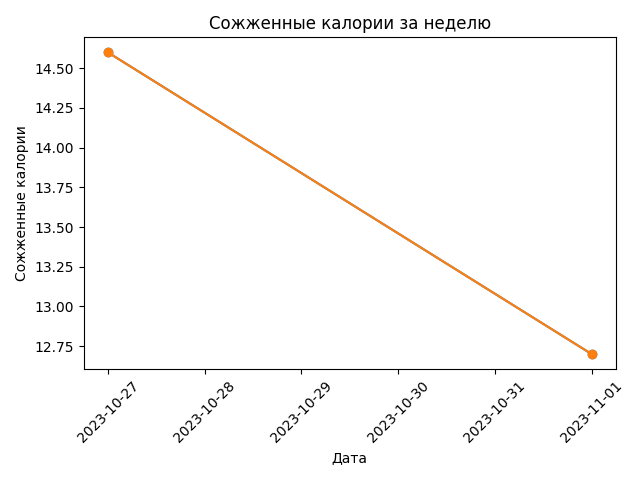
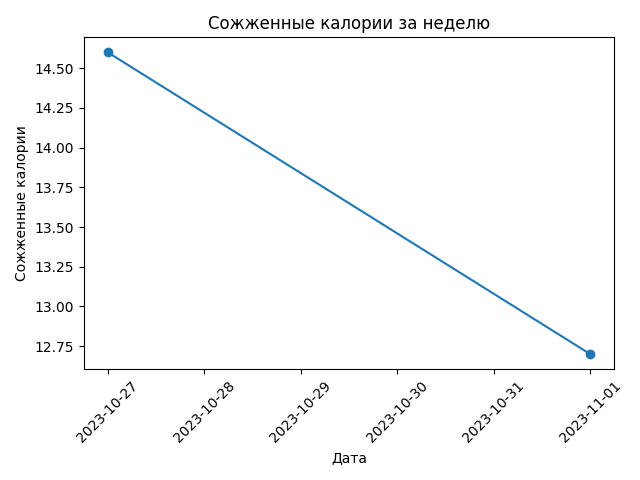
diagram of b d sn

diff --git a/appflut/webflut/templates/display.html b/appflut/webflut/templates/display.html
@@ -1,0 +1,15 @@
+<!doctype html>
+<html lang="en">
+<head>
+    <meta charset="UTF-8">
+    <meta name="viewport"
+          content="width=device-width, user-scalable=no, initial-scale=1.0, maximum-scale=1.0, minimum-scale=1.0">
+    <meta http-equiv="X-UA-Compatible" content="ie=edge">
+    <title>Document</title>
+</head>
+<body>
+
+<h1>Диаграмма потраченных калорий за неделю </h1>
+<img src="{{ image_path }}" alt="Calories Chart">
+</body>
+</html>

diff --git a/appflut/webflut/views.py b/appflut/webflut/views.py
@@ -818,13 +818,51 @@ def display_calories_chart(request):
     os.makedirs(image_dir, exist_ok=True)
 
     image_path = os.path.join(image_dir, 'calories_chart.png')
-    plt.plot(dates, calories, marker='o')
-    plt.xlabel('Дата')
-    plt.ylabel('Сожженные калории')
-    plt.title('Сожженные калории за неделю')
-    plt.xticks(rotation=45)
-    plt.tight_layout()
     plt.savefig(image_path)  # Сохранить диаграмму как изображение
     plt.close()
 
     return render(request, 'chart.html', {'image_path': '/static/phototest/calories_chart.png'})
+
+
+def display(request):
+    user = request.user
+    week_start = datetime.now().date() - timedelta(days=6)
+
+    breakfast_products = Breakfast_Products.objects.filter(user=user, date__date__range=[week_start, date.today()])
+    lunch_products = Lunch_Products.objects.filter(user=user, date__date__range=[week_start, date.today()])
+    dinner_products = Dinner_Products.objects.filter(user=user, date__date__range=[week_start, date.today()])
+    snack_products = Snack_Products.objects.filter(user=user, date__date__range=[week_start, date.today()])
+
+    bcalories_in = breakfast_products.aggregate(Sum('product__calories_in'))['product__calories_in__sum'] or 0
+    calories_in = lunch_products.aggregate(Sum('product__calories_in'))['product__calories_in__sum'] or 0
+    dcalories_in = dinner_products.aggregate(Sum('product__calories_in'))['product__calories_in__sum'] or 0
+    scalories_in = snack_products.aggregate(Sum('product__calories_in'))['product__calories_in__sum'] or 0
+
+    total_calories = bcalories_in + calories_in + dcalories_in + scalories_in
+
+    # Prepare chart data
+    labels = ['Breakfast', 'Lunch', 'Dinner', 'Snack']
+    calories = [bcalories_in, calories_in, dcalories_in, scalories_in]
+
+    # Plot the chart
+    plt.bar(labels, calories)
+    plt.xlabel('Meal')
+    plt.ylabel('Calories')
+    plt.title('Consumed Calories by Meal')
+    plt.tight_layout()
+
+    # Save the chart as an image
+    current_path = os.path.dirname(os.path.abspath(__file__))
+    image_dir = os.path.join(current_path, 'static', 'phototest')
+    os.makedirs(image_dir, exist_ok=True)
+
+    image_path = os.path.join(image_dir, 'chart.png')
+    plt.savefig(image_path)
+    plt.close()
+
+
+    context = {
+        'total_calories': total_calories,
+        'image_path': '/static/phototest/chart.png',
+    }
+    return render(request, 'display.html', context)

diff --git a/appflut/webflut/urls.py b/appflut/webflut/urls.py
@@ -34,5 +34,6 @@ urlpatterns = [
     path('step2/', views.step2_view, name='step2'),
     path('step3/', views.step3_view, name='step3'),
     path('display_calories_chart/', views.display_calories_chart, name='display_calories_chart'),
+    path('display/', views.display, name='display'),
 
 ]
